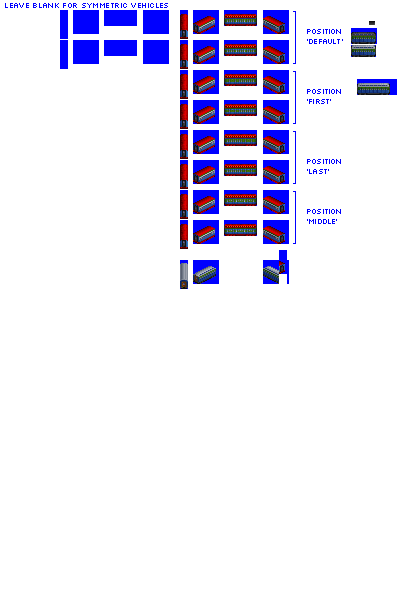
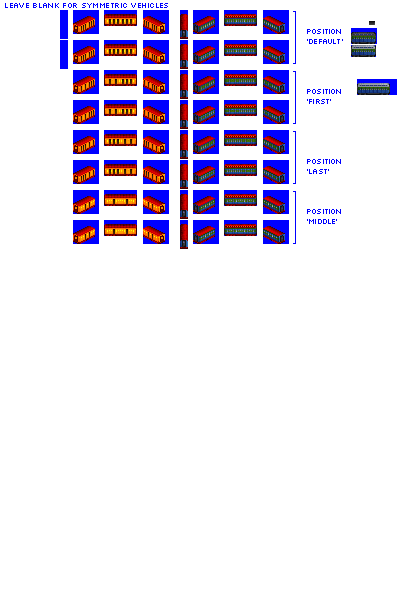
Change: sprites complete for gen 1 luxury pax car

diff --git a/src/vehicles/luxury_passenger_cars.py b/src/vehicles/luxury_passenger_cars.py
@@ -18,7 +18,8 @@ def main():
     consist = PassengerLuxuryCarConsist(roster='pony',
                                         base_numeric_id=2250,
                                         gen=1,
-                                        subtype='A')
+                                        subtype='A',
+                                        sprites_complete=True)
 
     consist.add_unit(type=PaxMailCar,
                      capacity=25,
